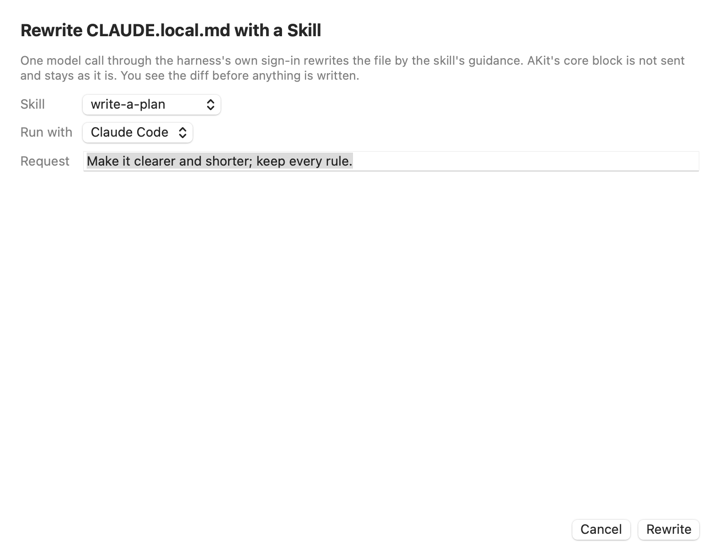
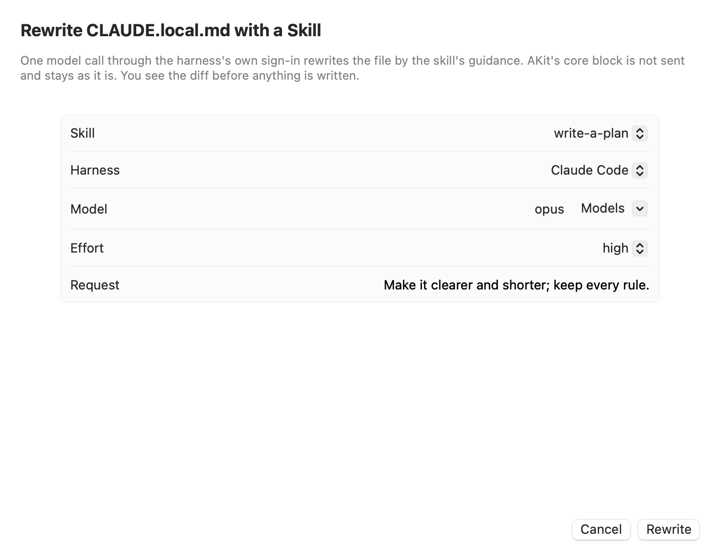
Pick the model and effort for Rewrite with Skill
The sheet now has Lab's harness, model (with the models the harness
offers) and effort fields next to the skill, and remembers the last
choice on this Mac.

diff --git a/AKit/InstructionsView.swift b/AKit/InstructionsView.swift
@@ -1070,7 +1070,11 @@ private struct RewriteInstructionSheet: View {
     /// The running call: Cancel (or closing the sheet) stops it.
     @State private var call: Task<Void, Never>?
     @State private var skillID: Skill.ID?
-    @State private var harness: LabHarness = .claudeCode
+    /// The last choices, for the next rewrite (this Mac only).
+    @AppStorage("rewrite.skill") private var lastSkill = ""
+    @AppStorage("rewrite.harness") private var harnessRaw = LabHarness.claudeCode.rawValue
+    @AppStorage("rewrite.model") private var modelName = ""
+    @AppStorage("rewrite.effort") private var effort = "high"
     @State private var request = "Make it clearer and shorter; keep every rule."
     @State private var plan: InstructionEdit.Plan?
     @State private var problem: String?
@@ -1082,10 +1086,13 @@ private struct RewriteInstructionSheet: View {
             .sorted { $0.name.localizedStandardCompare($1.name) == .orderedAscending }
     }
 
-    private var harnesses: [LabHarness] {
-        let installed = Set(model.installations.map(\.id))
-        let known = LabHarness.allCases.filter { installed.contains($0 == .claudeCode ? .claudeCode : .pi) }
-        return known.isEmpty ? [.claudeCode] : known
+    private var harness: Binding<LabHarness> {
+        Binding(get: { LabHarness(rawValue: harnessRaw) ?? .claudeCode }, set: { harnessRaw = $0.rawValue })
+    }
+
+    /// The agent the call runs with: the harness, model and effort picked here.
+    private var agent: LabAgent {
+        LabAgent(harness: harness.wrappedValue, model: modelName.trimmingCharacters(in: .whitespaces), effort: effort)
     }
 
     var body: some View {
@@ -1093,33 +1100,25 @@ private struct RewriteInstructionSheet: View {
             Text("Rewrite \(entry.file.lastPathComponent) with a Skill").font(.title2.bold())
             Text("One model call through the harness's own sign-in rewrites the file by the skill's guidance. AKit's core block is not sent and stays as it is. You see the diff before anything is written.")
                 .font(.callout).foregroundStyle(.secondary).fixedSize(horizontal: false, vertical: true)
-            Grid(alignment: .leadingFirstTextBaseline, horizontalSpacing: 10, verticalSpacing: 8) {
-                GridRow {
-                    Text("Skill").foregroundStyle(.secondary)
-                    Picker("Skill", selection: $skillID) {
-                        ForEach(skills) { Text($0.name).tag(Optional($0.id)) }
-                    }
-                    .labelsHidden()
-                    .fixedSize()
+            Form {
+                Picker("Skill", selection: $skillID) {
+                    ForEach(skills) { Text($0.name).tag(Optional($0.id)) }
                 }
-                GridRow {
-                    Text("Run with").foregroundStyle(.secondary)
-                    Picker("Run with", selection: $harness) {
-                        ForEach(harnesses, id: \.self) { Text($0.title).tag($0) }
-                    }
-                    .labelsHidden()
-                    .fixedSize()
-                }
-                GridRow {
-                    Text("Request").foregroundStyle(.secondary)
-                    TextField("What should change", text: $request)
-                }
+                .help(skills.first { $0.id == skillID }.map { $0.description } ?? "")
+                // Harness, model (with the models it offers) and effort, as in Lab.
+                // Snapshots start from the harness's defaults, never this Mac's remembered choice.
+                ReviewAgentFields(harness: harness, modelName: $modelName, effort: $effort, keepsValues: DebugSnapshot.options == nil)
+                TextField("Request", text: $request, prompt: Text("What should change"))
             }
+            .formStyle(.grouped)
+            .scrollDisabled(true)
+            .scrollContentBackground(.hidden)
+            .frame(height: 230)
             .disabled(busy || plan != nil)
             if let plan {
                 InstructionPlanReview(plan: plan)
             } else if busy {
-                ProgressView("Waiting for \(harness.title)…").frame(maxWidth: .infinity, maxHeight: .infinity)
+                ProgressView("Waiting for \(agent.label)…").frame(maxWidth: .infinity, maxHeight: .infinity)
             } else {
                 Spacer()
             }
@@ -1145,8 +1144,8 @@ private struct RewriteInstructionSheet: View {
                 } else {
                     Button("Rewrite", action: run)
                         .keyboardShortcut(.defaultAction)
-                        .disabled(busy || skillID == nil)
-                        .help("Send the file (without AKit's block) and the skill to \(harness.title) in one call; it shows in Lab → Sends")
+                        .disabled(busy || skillID == nil || (agent.harness == .claudeCode && agent.model.isEmpty))
+                        .help("Send the file (without AKit's block) and the skill in one call to \(agent.label); it shows in Lab → Sends")
                 }
             }
         }
@@ -1155,20 +1154,21 @@ private struct RewriteInstructionSheet: View {
         .onDisappear { call?.cancel() }
         .onAppear {
             if skillID == nil {
-                // A writing skill when there is one, else the first.
-                skillID = (skills.first { $0.name.localizedCaseInsensitiveContains("writ") } ?? skills.first)?.id
+                // The last skill used here, else a writing skill when there is one, else the first.
+                let remembered = DebugSnapshot.options == nil ? lastSkill : ""
+                skillID = (skills.first { $0.name == remembered } ?? skills.first { $0.name.localizedCaseInsensitiveContains("writ") } ?? skills.first)?.id
             }
-            if !harnesses.contains(harness), let first = harnesses.first { harness = first }
         }
     }
 
     private func run() {
         guard let skill = model.skills.first(where: { $0.id == skillID }) else { return }
+        lastSkill = skill.name
         busy = true
         problem = nil
         call = Task {
             do {
-                plan = try await model.rewriteInstruction(entry.file, skill: skill, request: request, harness: harness, reader: reader,
+                plan = try await model.rewriteInstruction(entry.file, skill: skill, request: request, agent: agent, reader: reader,
                                                           rendered: rendered)
             } catch is CancellationError {
                 // Cancelled with the sheet: nothing to show.

diff --git a/AKit/AppModel.swift b/AKit/AppModel.swift
@@ -275,13 +275,14 @@ final class AppModel {
         }
     }
 
-    /// Rewrite with Skill…: one model call through `harness`'s own sign-in (send policy, scrub,
+    /// Rewrite with Skill…: one model call through `agent`'s harness and its own sign-in, with the
+    /// chosen model and effort (send policy, scrub,
     /// limit, send log) rewrites the file by the skill's guidance; returns the change as a plan
     /// to show and apply. `reader`: the harness that reads the file on the screen, the data's
     /// origin for the send policy. A file the scrub would change is not sent: the masked text
     /// would come back and be written over the real value. Not detached, so cancelling the
     /// calling task stops the call.
-    func rewriteInstruction(_ file: URL, skill: Skill, request: String, harness: LabHarness, reader: HarnessID,
+    func rewriteInstruction(_ file: URL, skill: Skill, request: String, agent: LabAgent, reader: HarnessID,
                             rendered: Set<String>) async throws -> InstructionEdit.Plan {
         let env = HarnessEnvironment.current
         let origin: SendOrigin
@@ -298,7 +299,6 @@ final class AppModel {
             throw InstructionRewrite.Failure(message: "\(skill.realFile.tildePath) can't be read, so the skill gives no guidance. Pick another skill.")
         }
         let prepared = try InstructionRewrite.prepare(file: text, skillName: skill.name, skill: skillText, request: request)
-        let agent = LabRuns.defaultAgent(harness, env: env)
         let gate = try await SendGate.open(agent: agent, env: env)
         let checks = [gate.scrub(prepared.input), gate.scrub(prepared.system)]
         if checks[0].text != prepared.input || checks[1].text != prepared.system {

diff --git a/docs/guides/screens.ru.md b/docs/guides/screens.ru.md
@@ -1584,16 +1584,23 @@ akit remove skill ИМЯ --everywhere
 Пример: инструкции стали длинными. Вы хотите, чтобы модель переписала их короче по правилам вашего скилла для текстов.
 
 1. Выберите файл и нажмите **Rewrite with Skill…** в карточке.
-2. В окне выберите **Skill** (по умолчанию — скилл со словом «writ» в имени), агента в **Run with** (Claude Code или Pi) и напишите **Request** — что изменить.
+2. В окне выберите:
+   - **Skill** — скилл, по правилам которого модель перепишет текст. Сначала стоит скилл, выбранный в прошлый раз, иначе скилл со словом «writ» в имени;
+   - **Harness** — через кого идёт вызов: Claude Code или Pi;
+   - **Model** — модель. Меню **Models** показывает варианты: для Claude Code — алиасы (`opus`, `sonnet` …), для Pi — модели, к которым у Pi есть доступ;
+   - **Effort** (у Pi — **Thinking**) — сколько модель думает;
+   - **Request** — что изменить.
+
+   Окно запоминает скилл, агента, модель и effort до следующего раза.
 3. Нажмите **Rewrite**. AKit делает один вызов модели через вход выбранного агента. Вызов виден в **Lab** → **Sends**.
 4. Окно покажет diff: что модель предлагает изменить. **Rewrite Again** просит ещё раз.
 5. Нажмите **Apply**, чтобы записать (с резервной копией). Без **Apply** файл не меняется.
 
-![Окно Rewrite CLAUDE.local.md with a Skill: поля Skill (write-a-plan), Run with (Claude Code) и Request (Make it clearer and shorter; keep every rule.); кнопки Cancel и Rewrite](images/instructions-rewrite.png)
+![Окно Rewrite CLAUDE.local.md with a Skill: поля Skill (write-a-plan), Harness (Claude Code), Model (opus) с меню Models, Effort (high) и Request (Make it clearer and shorter; keep every rule.); кнопки Cancel и Rewrite](images/instructions-rewrite.png)
 
 - Блок AKit в модель не уходит: вместо него AKit ставит метку и потом возвращает блок на место. Если ответ потерял метку, AKit ничего не пишет.
 - Если правила отправки замаскировали бы часть файла или скилла (секрет, адрес почты), AKit файл не отправляет и пишет, какие правила сработали. Иначе ответ вернул бы замаскированный текст вместо настоящего.
-- Переписать можно файлы, которые читают Claude Code или Pi: выберите одного из них на экране. Если **Run with** — другой агент, нужен разрешающий пункт в правилах отправки.
+- Переписать можно файлы, которые читают Claude Code или Pi: выберите одного из них на экране. Если **Harness** — другой агент, нужен разрешающий пункт в правилах отправки.
 - Если файл изменился, пока модель отвечала, **Apply** откажет: ваши правки не пропадут.
 - **Cancel** останавливает вызов модели.
 - Вызов подчиняется правилам отправки и месячному лимиту из **Settings** (как разборы сессий).

diff --git a/docs/design/instructions.md b/docs/design/instructions.md
@@ -76,7 +76,9 @@ are compared as written (a 4-space indent is refused); the answer's JSON is foun
 prose without trapping; Cancel stops the call. The send origin is the harness the screen shows
 (`.code(.claudeCode)` or `.code(.pi)`; Codex and OpenCode files are not sent), so a destination
 other than that reader needs the send policy's allow list. A file the scrub would mask (an e-mail
-address counts) is refused with the rules that matched. Not handled: the editor's smart quotes. Step 0 (the facts below) is done: checked the same day in
+address counts) is refused with the rules that matched. Not handled: the editor's smart quotes.
+The sheet picks the skill and the agent (harness, model with the models it offers, effort: Lab's
+`ReviewAgentFields`) and remembers them on this Mac (2026-10-14, asked by the user). Step 0 (the facts below) is done: checked the same day in
 the installed harnesses' code and docs.
 
 ## Problem
